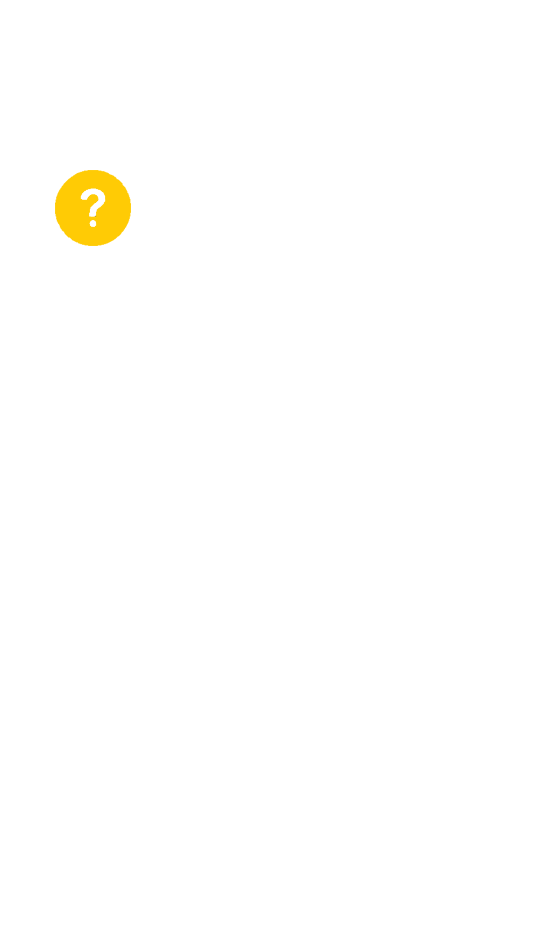
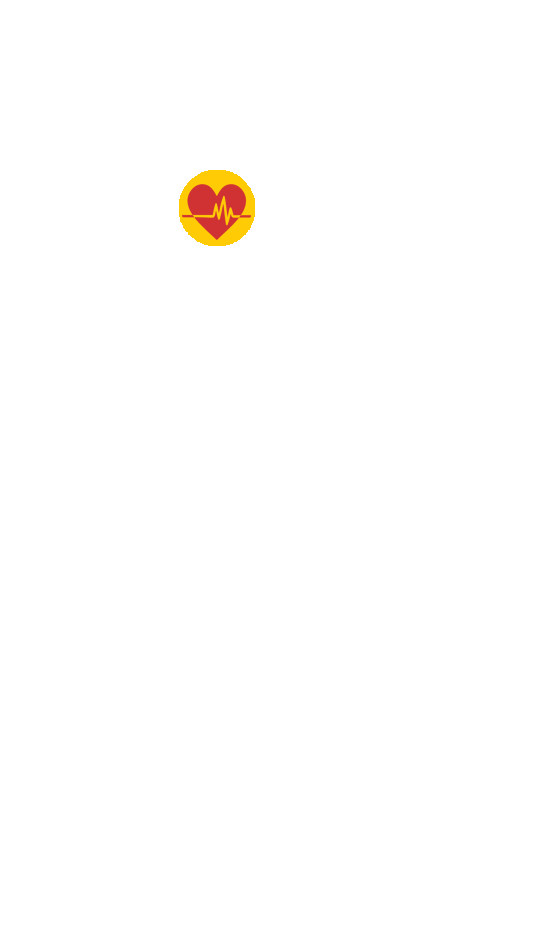
버튼별 동작 구현

Changed region(s): [[0.3265, 0.1812, 0.475, 0.2718], [0.0891, 0.1812, 0.2672, 0.2718]]

diff --git a/app/kumagotchi.js b/app/kumagotchi.js
@@ -18,7 +18,20 @@ const Front = _ => (
 const Main = _ => (
   <div id="main">
     <img src="res/bear-basic.png"/>
+    <div style={{position: 'absolute', left: 0, top: 0}}>
+    </div>
+    { [41, 134, 223, 305].map((left, i) =>
+      <div key={i} tabIndex="0"
+        className="button" style={{left}}
+        onFocus={_ => console.log(`Focusing ${i}`)}
+        onBlur={_ => console.log(`Leaving ${i}`)}
+      />
+    ) }
   </div>
+);
+
+const Menu = i => _ => (
+  <img src={`res/button${i}-active.png`}/>
 );
 
 render(

diff --git a/app/res/style.css b/app/res/style.css
@@ -22,11 +22,19 @@ img {
 
 #main {
   background:
+    url('button0.png'),
     url('button1.png'),
     url('button2.png'),
     url('button3.png'),
-    url('button4.png'),
     url('bkground.png'),
     black;
   background-size: contain;
+}
+
+#main .button {
+  position: absolute;
+  outline: none;
+  top: 127px;
+  width: 57px;
+  height: 57px;
 }
